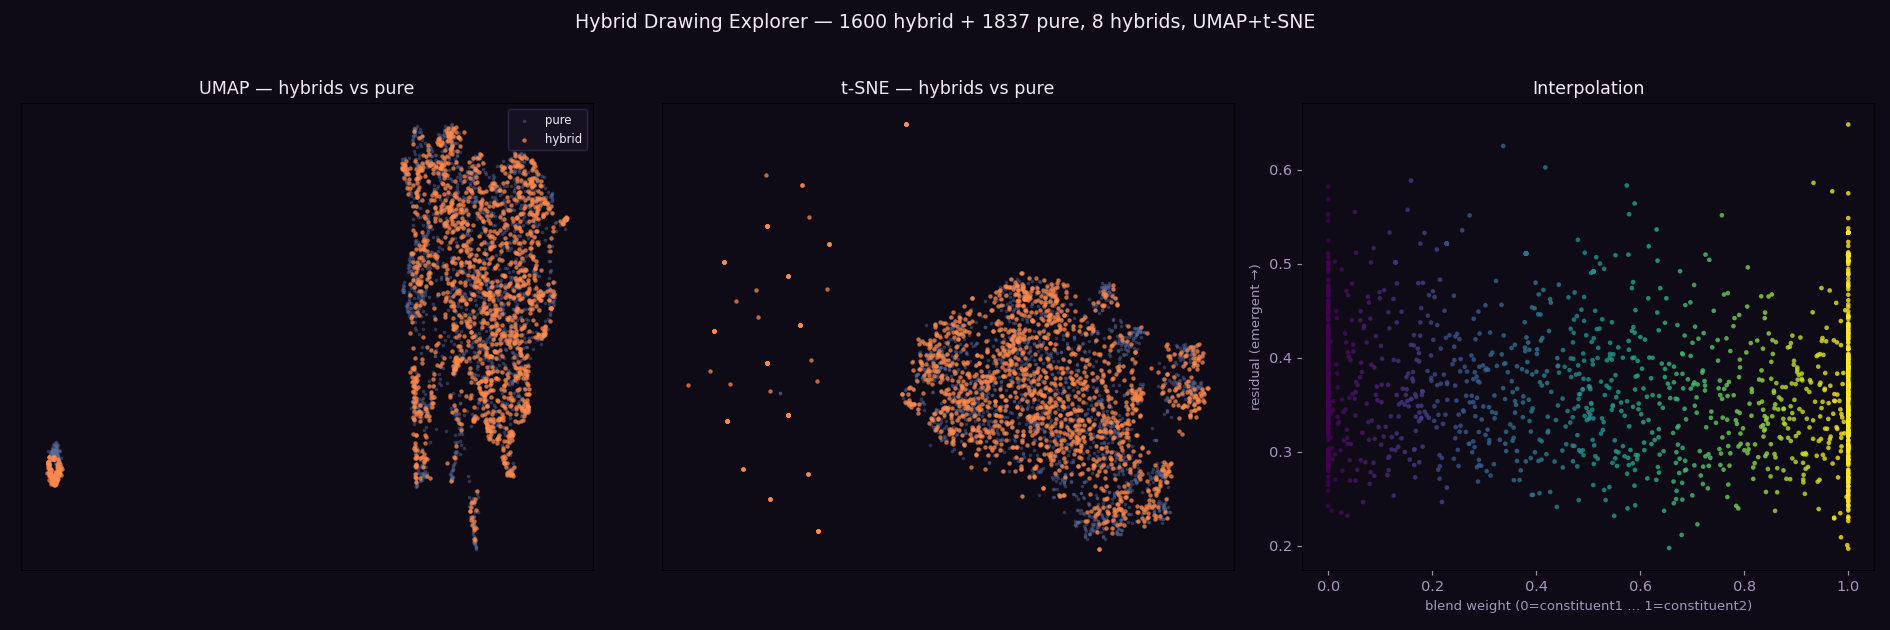
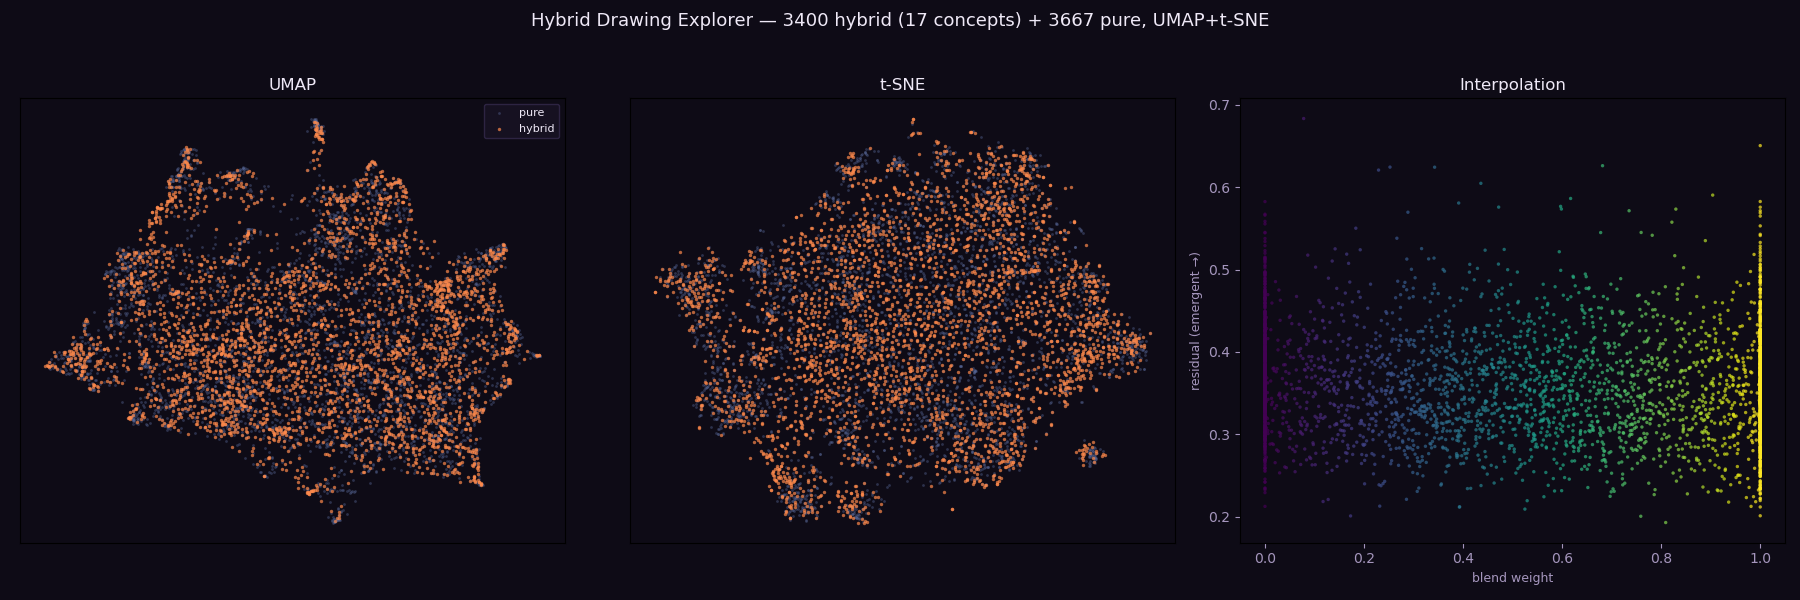
All 17 hybrids (both stim sets) + drop blank drawings; pull from both collections
- Include the full 17-hybrid set: the 8 from the analysis CSV plus the 9 from
  the experiment's second stim list (cow whale, bear tree, airplane lamp,
  horse car, ice cream hat, phone bird, spider watch, octopus cup, camel dog),
  via an explicit constituent map (handles "an ice cream hat" -> ice cream + hat).
- Pull hybrids from BOTH hybrid collections (cdm_hybrid_v1 + SONA_hybrid_run_v1).
- Ink-density filter now also drops blanks (< 1% ink), not just scribbles.
- 3400 hybrid (17 x 200) + 3667 pure (34 constituents) = 7067 drawings.
- Embedding cache added so future filter tweaks don't re-embed from scratch.

diff --git a/index.html b/index.html
@@ -144,7 +144,7 @@ const MAGMA=[[13,8,38],[81,18,124],[183,55,121],[252,137,97],[252,253,191]];
 function ramp(stops,t){t=Math.max(0,Math.min(1,t));const s=t*(stops.length-1);const i=Math.floor(s),f=s-i;
   const a=stops[i],b=stops[Math.min(i+1,stops.length-1)];
   return `rgb(${Math.round(lerp(a[0],b[0],f))},${Math.round(lerp(a[1],b[1],f))},${Math.round(lerp(a[2],b[2],f))})`;}
-function hybColor(i){return `hsl(${(i*360/16+15)%360},65%,62%)`;}
+function hybColor(i){const n=(HYB&&HYB.length)||17;return `hsl(${(i*360/n+15)%360},65%,62%)`;}
 function diverge(t){ // 0 -> blue (c1), 1 -> orange (c2)
   return t<0.5 ? ramp([[58,160,255],[150,150,170]], t*2) : ramp([[150,150,170],[255,123,58]], (t-0.5)*2); }
 

diff --git a/build_data.py b/build_data.py
@@ -37,24 +37,32 @@ random.seed(0)
 HERE = os.path.dirname(os.path.abspath(__file__))
 DRAW_DIR = os.path.join(HERE, "drawings")
 DB = "kiddraw"
-HYBRID_COLL = "cdm_hybrid_v1"
+HYBRID_COLLS = ["cdm_hybrid_v1", "SONA_hybrid_run_v1"]   # both hybrid collections
 PURE_COLLS = ["cdm_run_v8", "cdm_run_v7", "cdm_run_v6", "cdm_run_v5", "cdm_run_v4",
               "cdm_run_v3", "cdm_run_v2", "Bing_run_v4", "india_run_v1", "SONA_hybrid_run_v1"]
-CONTROLS = {"square", "shape", "this square", "copied_square", "traced_square", "a dog"}
+CONTROLS = {"square", "shape", "this square", "copied_square", "traced_square"}
 
-USABLE_HYBRIDS = ["a train cat", "a bike bee", "a mushroom house", "a rabbit boat",
-                  "a sheep fish", "a dinosaur truck", "an elephant snail", "a tiger frog"]
-DUR_MIN, INK_MAX = 2.0, 0.15
-SAMPLE_HYBRID, SAMPLE_PURE = 200, 120     # per concept
-
-
-def article(w):
-    return ("an " if w[0].lower() in "aeiou" else "a ") + w
+# all 17 hybrids across both experiment stim sets, with explicit constituents
+# (explicit map needed because "an ice cream hat" doesn't word-split cleanly).
+HYBRID_MAP = {
+    "a train cat": ("a train", "a cat"), "a bike bee": ("a bike", "a bee"),
+    "a mushroom house": ("a mushroom", "a house"), "a rabbit boat": ("a rabbit", "a boat"),
+    "a sheep fish": ("a sheep", "a fish"), "a dinosaur truck": ("a dinosaur", "a truck"),
+    "an elephant snail": ("an elephant", "a snail"), "a tiger frog": ("a tiger", "a frog"),
+    "a cow whale": ("a cow", "a whale"), "a bear tree": ("a bear", "a tree"),
+    "an airplane lamp": ("an airplane", "a lamp"), "a horse car": ("a horse", "a car"),
+    "an ice cream hat": ("an ice cream", "a hat"), "a phone bird": ("a phone", "a bird"),
+    "a spider watch": ("a spider", "a watch"), "an octopus cup": ("an octopus", "a cup"),
+    "a camel dog": ("a camel", "a dog"),
+}
+USABLE_HYBRIDS = list(HYBRID_MAP)
+DUR_MIN, INK_MIN, INK_MAX = 2.0, 0.01, 0.15   # drop blank (<1% ink) and scribbles
+SAMPLE_HYBRID, SAMPLE_PURE = 200, 110     # per concept
+EMB_CACHE = os.path.join(os.path.dirname(os.path.abspath(__file__)), ".emb_cache.npz")
 
 
 def constituents(h):
-    t = h.split()
-    return article(t[1]), article(t[2])
+    return HYBRID_MAP[h]
 
 
 def age_num(a):
@@ -94,21 +102,26 @@ def ink_density(rgba):
     return float((g < 250).sum()) / g.size
 
 
-def collect(coll, categories, sample_n, kind):
-    """Dedup latest per (sessionId,category) with the duration filter (cheap, no
-    decode); then for each category shuffle and lazily decode candidates until
-    sample_n pass the ink filter — so we never decode the whole collection."""
+def collect(colls, categories, sample_n, kind):
+    """Aggregate across one or more collections. Dedup latest per
+    (sessionId,category) with the duration filter (cheap, no decode); then per
+    category shuffle and lazily decode candidates, keeping ones whose ink
+    density is in [INK_MIN, INK_MAX] (drops blanks and scribbles), up to
+    sample_n. Never decodes the whole collection."""
+    if not isinstance(colls, (list, tuple)):
+        colls = [colls]
     by_cat = {c: {} for c in categories}
-    cur = coll.find({"dataType": "finalImage", "category": {"$in": list(categories)}},
-                    {"imgData": 1, "category": 1, "sessionId": 1, "trialNum": 1,
-                     "startTrialTime": 1, "endTrialTime": 1, "age": 1})
-    for d in cur:
-        st, et = d.get("startTrialTime"), d.get("endTrialTime")
-        if st and et and (et - st) / 1000.0 < DUR_MIN:   # only filter when timed
-            continue
-        prev = by_cat[d["category"]].get(d.get("sessionId"))
-        if prev is None or (d.get("endTrialTime") or 0) >= (prev.get("endTrialTime") or 0):
-            by_cat[d["category"]][d.get("sessionId")] = d
+    for coll in colls:
+        cur = coll.find({"dataType": "finalImage", "category": {"$in": list(categories)}},
+                        {"imgData": 1, "category": 1, "sessionId": 1, "trialNum": 1,
+                         "startTrialTime": 1, "endTrialTime": 1, "age": 1})
+        for d in cur:
+            st, et = d.get("startTrialTime"), d.get("endTrialTime")
+            if st and et and (et - st) / 1000.0 < DUR_MIN:   # only filter when timed
+                continue
+            prev = by_cat[d["category"]].get(d.get("sessionId"))
+            if prev is None or (d.get("endTrialTime") or 0) >= (prev.get("endTrialTime") or 0):
+                by_cat[d["category"]][d.get("sessionId")] = d
     out = []
     for cat, docs in by_cat.items():
         cands = list(docs.values()); random.shuffle(cands)
@@ -118,7 +131,8 @@ def collect(coll, categories, sample_n, kind):
                 break
             try:
                 rgba = decode(d)
-                if ink_density(rgba) > INK_MAX:
+                dink = ink_density(rgba)
+                if dink < INK_MIN or dink > INK_MAX:     # blank or scribble
                     continue
             except Exception:
                 continue
@@ -139,8 +153,8 @@ def main():
     pures = sorted({c for h in USABLE_HYBRIDS for c in constituents(h)})
     print(f"{len(USABLE_HYBRIDS)} hybrids, {len(pures)} pure constituents")
 
-    # ---- hybrids ----
-    items = collect(db[HYBRID_COLL], set(USABLE_HYBRIDS), SAMPLE_HYBRID, 1)
+    # ---- hybrids (from both hybrid collections) ----
+    items = collect([db[c] for c in HYBRID_COLLS], set(USABLE_HYBRIDS), SAMPLE_HYBRID, 1)
     print(f"hybrids after filter+sample: {len(items)}")
 
     # ---- pures: aggregate across kiddraw runs until each concept hits the cap ----
@@ -158,13 +172,23 @@ def main():
     items += pure_items
     print(f"total drawings: {len(items)}  ({sum(i['kind'] for i in items)} hybrid)")
 
-    # ---- embed ----
-    embs = []
+    # ---- embed (cached by filename so re-runs after a filter tweak are fast) ----
+    cache = {}
+    if os.path.exists(EMB_CACHE):
+        z = np.load(EMB_CACHE, allow_pickle=True)
+        cache = {f: e for f, e in zip(z["files"], z["embs"])}
+    embs, hits = [], 0
     for j, it in enumerate(items):
-        embs.append(clip_lib.image_embedding(os.path.join(DRAW_DIR, it["file"])))
+        f = it["file"]
+        if f in cache:
+            embs.append(cache[f]); hits += 1
+        else:
+            e = clip_lib.image_embedding(os.path.join(DRAW_DIR, f)); cache[f] = e; embs.append(e)
         if (j + 1) % 300 == 0:
-            print(f"    embedded {j+1}/{len(items)}")
+            print(f"    embedded {j+1}/{len(items)} ({hits} cached)")
     E = np.array(embs)
+    np.savez(EMB_CACHE, files=np.array(list(cache.keys())), embs=np.array(list(cache.values())))
+    print(f"  {hits}/{len(items)} embeddings from cache")
 
     # ---- centroids + interpolation ----
     cent = {}

diff --git a/README.md b/README.md
@@ -1,8 +1,7 @@
 # Hybrid Drawing Explorer
 
 An interactive web page for exploring children's drawings of **hybrid concepts** —
-blends of two familiar things, like *"a bike bee"*, *"a tiger frog"*, or
-*"a mushroom house"* — alongside the **pure constituent** drawings, in CLIP
+blends of two familiar things — 17 of them (bike bee, tiger frog, ice cream hat, octopus cup, …) — alongside the pure constituent drawings, in CLIP
 embedding space. Companion to
 [`exploratory-drawing-analysis`](https://github.com/vislearnlab/exploratory-drawing-analysis),
 built in the style of the lab's other drawing explorers.